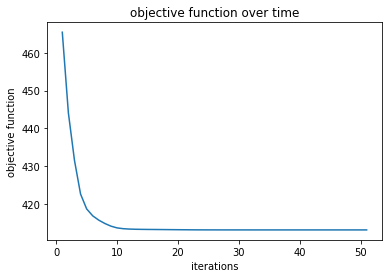
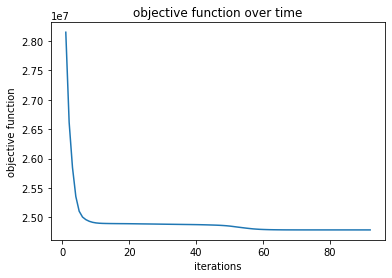
re-added colab files

diff --git a/hw4/cse446hw4.tex b/hw4/cse446hw4.tex
@@ -790,19 +790,9 @@ print(b_test_loss)
 \section*{A.5}
 {\Large 
 
-% Given a dataset $x_1, \dots, x_n \in \R^{d}$ and an integer $1 \leq k \leq n$, recall the following $k$-means objective function
-% \begin{align}
-%     \min_{\pi_1, \ldots, \pi_k} \sum_{i=1}^{k} \sum_{j \in \pi_i} \norm{ x_j - \mu_{i} }^2_2 \ , \quad \mu_i = \frac{1}{|\pi_i|} \sum_{j \in \pi_i} x_j \ . \label{eq:kmeans_obj}
-% \end{align}
-% Above, $\{\pi_i\}_{i=1}^{k}$ is a partition of $\{1, 2, \ldots, n\}$. The objective \eqref{eq:kmeans_obj} is NP-hard to find a global minimizer of. Nevertheless Lloyd's algorithm, the commonly-used heuristic which we discussed in lecture, typically works well in practice.
-
 \subsection*{a.}
 
-% Implement Lloyd's algorithm for solving the $k$-means objective \eqref{eq:kmeans_obj}. Do not use any off-the-shelf implementations, such as those found in \texttt{scikit-learn}. Include your code in your submission.
-
 \subsection*{b.}
-
-% Run the algorithm on the \emph{training} dataset of MNIST with $k=10$, plotting the objective function \eqref{eq:kmeans_obj} as a function of the iteration number. Visualize (and include in your report) the cluster centers as a $28\times 28$ image.
 
 \begin{figure}[!hb]
   \centering
@@ -817,8 +807,6 @@ print(b_test_loss)
 \newpage
 
 \subsection*{c.}
-
-% For $k=\{2, 4, 8, 16, 32, 64\}$ run the algorithm on the \emph{training} dataset to obtain centers $\{\mu_{i}\}_{i=1}^k$. If $\left\{\left(x_i,y_i\right)\right\}_{i=1}^n$ and $\left\{\left(x_i',y_i'\right)\right\}_{i=1}^m$ denote the training and test sets, respectively, plot the training error $\frac{1}{n} \sum_{i=1}^n \min_{j=1,\dots,k} \twonorm{ \mu_j - x_i }$ and test error $\frac{1}{m} \sum_{i=1}^m \min_{j=1,\dots,k} \twonorm{ \mu_j - x_i' }$ as a function of $k$ on the same plot.
 
 \begin{figure}[!hb]
   \centering
@@ -915,9 +903,9 @@ def run_lloyd(data, k, function):
 
   result_list = []
 
-  iter = 0
+  iteration = 0
   while True:
-    print("iteration " + str(iter))
+    print("iteration " + str(iteration))
 
     old_idx = np.copy(new_idx)
     new_idx = classify(data, centroids)
@@ -925,18 +913,21 @@ def run_lloyd(data, k, function):
     centroids = recenter(data, new_idx, centroids)
 
     # calculating objective/error  
-    error = ((np.square(np.linalg.norm(data - centroids[new_idx], axis = data.ndim - 1))).sum() / n)
+    error = np.sum(np.square(np.linalg.norm(data - centroids[new_idx], axis = data.ndim - 1)))
 
     if function == "b":
       result_list.append(error)
+
+    if function == "c":
+      error /= n
 
     # if no more changes, then break
     if np.array_equal(old_idx, new_idx):
       break
 
-    iter +=1
+    iteration +=1
   
-  return centroids, result_list, error, iter
+  return centroids, result_list, error, iteration
 
 def classify(data, centroids):
   print("classifying points to centroids")
@@ -963,9 +954,9 @@ def get_obj(data, centroids):
 
   return np.array(obj)
 
-centroids, obj_list, _, iter = run_lloyd(train_data, k, "b")
+centroids, obj_list, _, iteration = run_lloyd(train_data, k, "b")
 
-print(iter)
+print(iteration)
 print(obj_list)
 
 # plot b
@@ -1030,14 +1021,7 @@ Small scale image classification \\ \\
 
 \subsection*{b.}
 
-Social Media App Facial Recognition Technology \\ \\
-\begin{itemize}
-    \item Setting: You are tasked with developing a machine learning pipeline that can quickly map someone’s face for the application of filters (i.e., Snapchat, Instagram).
-    \item Dataset: A set of face images compiled from the company’s employees and their families.
-    \item  Result: The company wants an algorithm that can quickly identify the key features of a person’s face to apply a filter. (Do not worry about describing the actual filter application!).
-\end{itemize}
-
-
+To pre-process the data, I would first look into trying to make sure that I can relatively "standardize" images by focusing on a person's face and minimizing the background as much as possible. To do this, I would try to first use the Haar Cascade Classifier, the precursor to using HoG features as mentioned in lecture, and attempt to crop as closely onto the face as possible with all the samples. Although the data could have good variety since families usually contain a good variety of ages and genders, the dataset is still relatively small. Keeping this in mind, I didn't have as much confidence in using HoG feature extraction, I thought something like PCA would be more effective in finding meaningful features, and combining this with some sort of bootstrapping or cross-validation could help as well to verify that the model is working properly and assess if we need more data as well. I also chose a linear function since it is considerably faster than non-linear algorithms.
 
 \subsection*{c.}
 

diff --git a/hw4-code/src/cse446_hw4_a4.py b/hw4-code/src/cse446_hw4_a4.py
@@ -189,10 +189,10 @@ for i, item in enumerate(axes):
     break
 
 for i, ax in enumerate(real_axes_list):
-  ax.imshow(train_samples[i], cmap='gray')
+  ax.imshow(train_samples[i])
 
 for i, ax in enumerate(new_axes_list):
-  ax.imshow(new_samples[i], cmap='gray')
+  ax.imshow(new_samples[i])
 
 # plot 64
 
@@ -210,10 +210,10 @@ for i, item in enumerate(axes):
     break
 
 for i, ax in enumerate(real_axes_list):
-  ax.imshow(train_samples[i], cmap='gray')
+  ax.imshow(train_samples[i])
 
 for i, ax in enumerate(new_axes_list):
-  ax.imshow(new_samples[i], cmap='gray')
+  ax.imshow(new_samples[i])
 
 # plot 128
 
@@ -231,10 +231,10 @@ for i, item in enumerate(axes):
     break
 
 for i, ax in enumerate(real_axes_list):
-  ax.imshow(train_samples[i], cmap='gray')
+  ax.imshow(train_samples[i])
 
 for i, ax in enumerate(new_axes_list):
-  ax.imshow(new_samples[i], cmap='gray')
+  ax.imshow(new_samples[i])
 
 """# part (b)"""
 
@@ -274,10 +274,10 @@ for i, item in enumerate(axes):
     break
 
 for i, ax in enumerate(real_axes_list):
-  ax.imshow(train_samples[i], cmap='gray')
+  ax.imshow(train_samples[i])
 
 for i, ax in enumerate(new_axes_list):
-  ax.imshow(new_samples[i], cmap='gray')
+  ax.imshow(new_samples[i])
 
 # plot 64
 
@@ -295,10 +295,10 @@ for i, item in enumerate(axes):
     break
 
 for i, ax in enumerate(real_axes_list):
-  ax.imshow(train_samples[i], cmap='gray')
+  ax.imshow(train_samples[i])
 
 for i, ax in enumerate(new_axes_list):
-  ax.imshow(new_samples[i], cmap='gray')
+  ax.imshow(new_samples[i])
 
 # plot 128
 
@@ -316,10 +316,10 @@ for i, item in enumerate(axes):
     break
 
 for i, ax in enumerate(real_axes_list):
-  ax.imshow(train_samples[i], cmap='gray')
+  ax.imshow(train_samples[i])
 
 for i, ax in enumerate(new_axes_list):
-  ax.imshow(new_samples[i], cmap='gray')
+  ax.imshow(new_samples[i])
 
 """# part (c)"""
 
@@ -331,6 +331,3 @@ print(a_test_loss)
 
 b_test_loss = test(b_model)
 print(b_test_loss)
-
-"""# part (d)"""
-

diff --git a/hw4-code/src/cse446_hw4_a5.py b/hw4-code/src/cse446_hw4_a5.py
@@ -85,9 +85,9 @@ def run_lloyd(data, k, function):
 
   result_list = []
 
-  iter = 0
+  iteration = 0
   while True:
-    print("iteration " + str(iter))
+    print("iteration " + str(iteration))
 
     old_idx = np.copy(new_idx)
     new_idx = classify(data, centroids)
@@ -95,18 +95,21 @@ def run_lloyd(data, k, function):
     centroids = recenter(data, new_idx, centroids)
 
     # calculating objective/error  
-    error = ((np.square(np.linalg.norm(data - centroids[new_idx], axis = data.ndim - 1))).sum() / n)
+    error = np.sum(np.square(np.linalg.norm(data - centroids[new_idx], axis = data.ndim - 1)))
 
     if function == "b":
       result_list.append(error)
+
+    if function == "c":
+      error /= n
 
     # if no more changes, then break
     if np.array_equal(old_idx, new_idx):
       break
 
-    iter +=1
+    iteration +=1
   
-  return centroids, result_list, error, iter
+  return centroids, result_list, error, iteration
 
 def classify(data, centroids):
   print("classifying points to centroids")
@@ -133,9 +136,9 @@ def get_obj(data, centroids):
 
   return np.array(obj)
 
-centroids, obj_list, _, iter = run_lloyd(train_data, k, "b")
+centroids, obj_list, _, iteration = run_lloyd(train_data, k, "b")
 
-print(iter)
+print(iteration)
 print(obj_list)
 
 # plot b
@@ -149,7 +152,7 @@ for item in axes:
   axes_list += list(item)
 
 for i, ax in enumerate(axes_list):
-  ax.imshow(centroids[i][0], cmap='gray_r')
+  ax.imshow(centroids[i][0])
 
 train_error_final = []
 test_error_final = []
